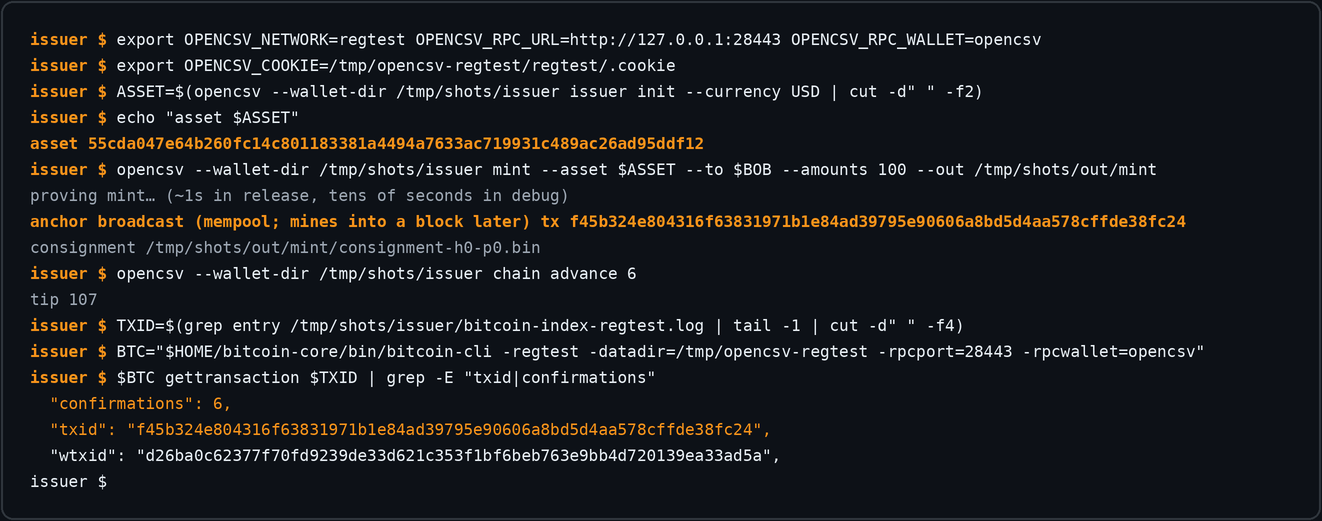
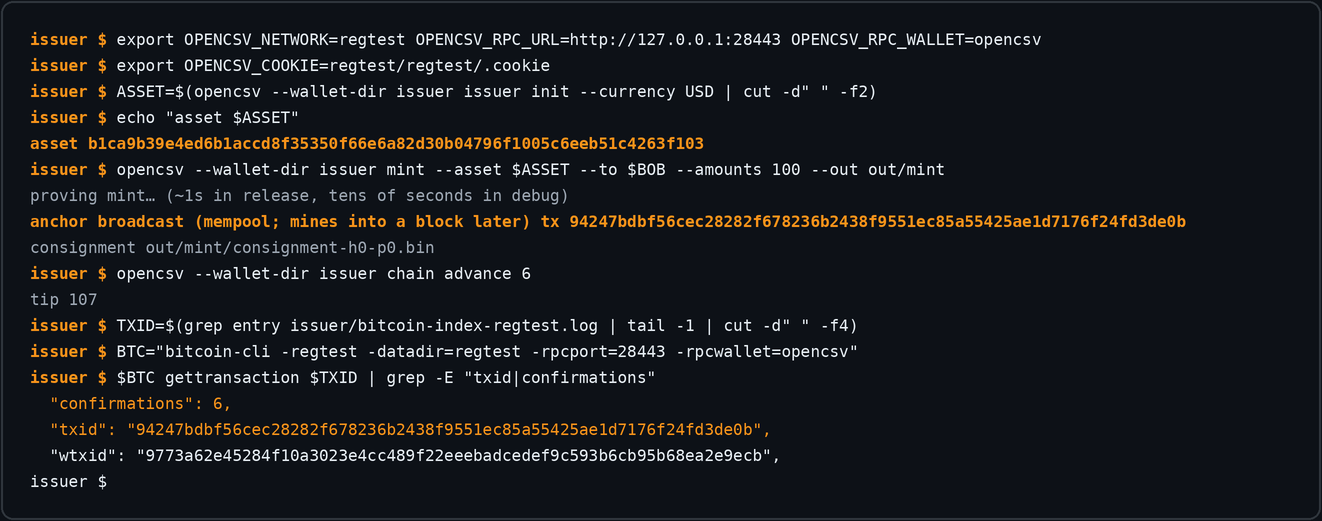
screenshots: regenerate CLI demo captures (opencsv-rs@aaadae9)

diff --git a/web/index.html b/web/index.html
@@ -119,7 +119,7 @@
     <p class="sub">The real CLI against a real <code>bitcoind</code> (regtest):
     every anchor is a broadcast Bitcoin transaction carrying a 64-byte
     <code>OP_RETURN</code> record — no demo chain, no mocks.</p>
-    <p class="provenance"><!-- CAPTURE-PROVENANCE -->captured manually · regtest · opencsv-rs@local<!-- /CAPTURE-PROVENANCE --></p>
+    <p class="provenance"><!-- CAPTURE-PROVENANCE -->captured 2026-08-01 11:34 UTC · regtest · opencsv-rs@aaadae9<!-- /CAPTURE-PROVENANCE --></p>
     <figure class="shot">
       <img src="screenshots/mint.png" alt="Issuer initializes a USD asset and mints 100 to Bob; the anchor transaction is broadcast and confirmed on regtest">
       <figcaption>The issuer creates a USD asset and mints 100 to Bob — the
